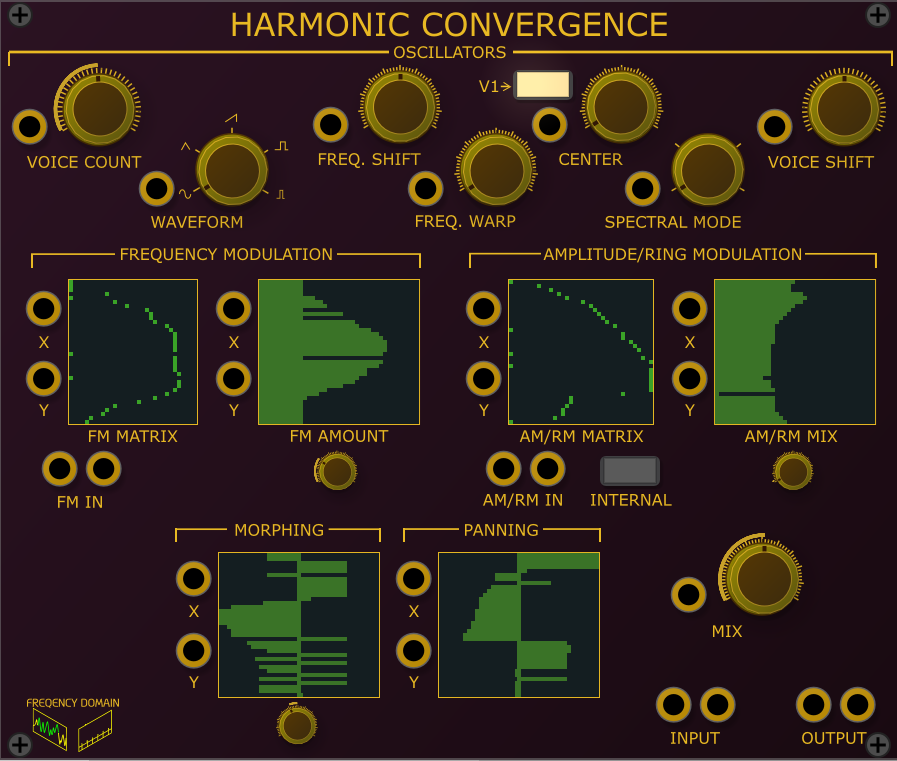
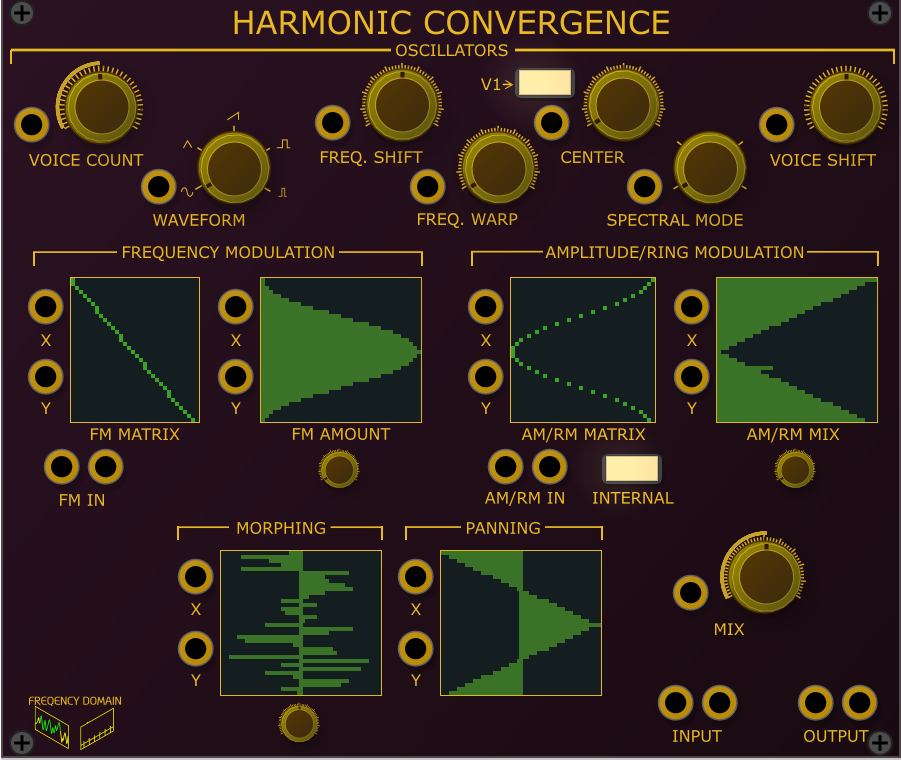
1.1 Update

diff --git a/README.md b/README.md
@@ -37,10 +37,15 @@ This is great for creating inharmonic sounds
 - In loving memory of Native Instrument's Spektral Delay.
 - Each frequency band can have its own initial volume level, delay time and feedback amount
 - Right click to adjust Windowing Function and Frame Size
+- Right click on grids to choose from default shapes or transform patterns
 - Send and Return allow the Feedback to be further processed
 - 2 or more Delayed Reactions can be used as expanders. When the LINK is enabled, drawing a curve on the master DR copies it to the others.
-- the PIN0s keep values that are 0 at 0, even if being CV'd
-
+- PINxs have five modes
+ - Off - PinX control has no effect
+ - Light Green - values (without CV) less than pinX axis are set to pinXs value, otherwise use value (+ cv)
+ - Green - values (without CV) less than pinX axis are unchanged, otherwise use value (+ cv)
+ - Pink - values (without CV) greater than pinX axis are set to pinXs value, otherwise use value (+ cv)
+ - Red - values (without CV) greater than pinX axis are unchanged, otherwise use value (+ cv)
 
 ## Morphology
 ![Morphology](./doc/morphology.png)
